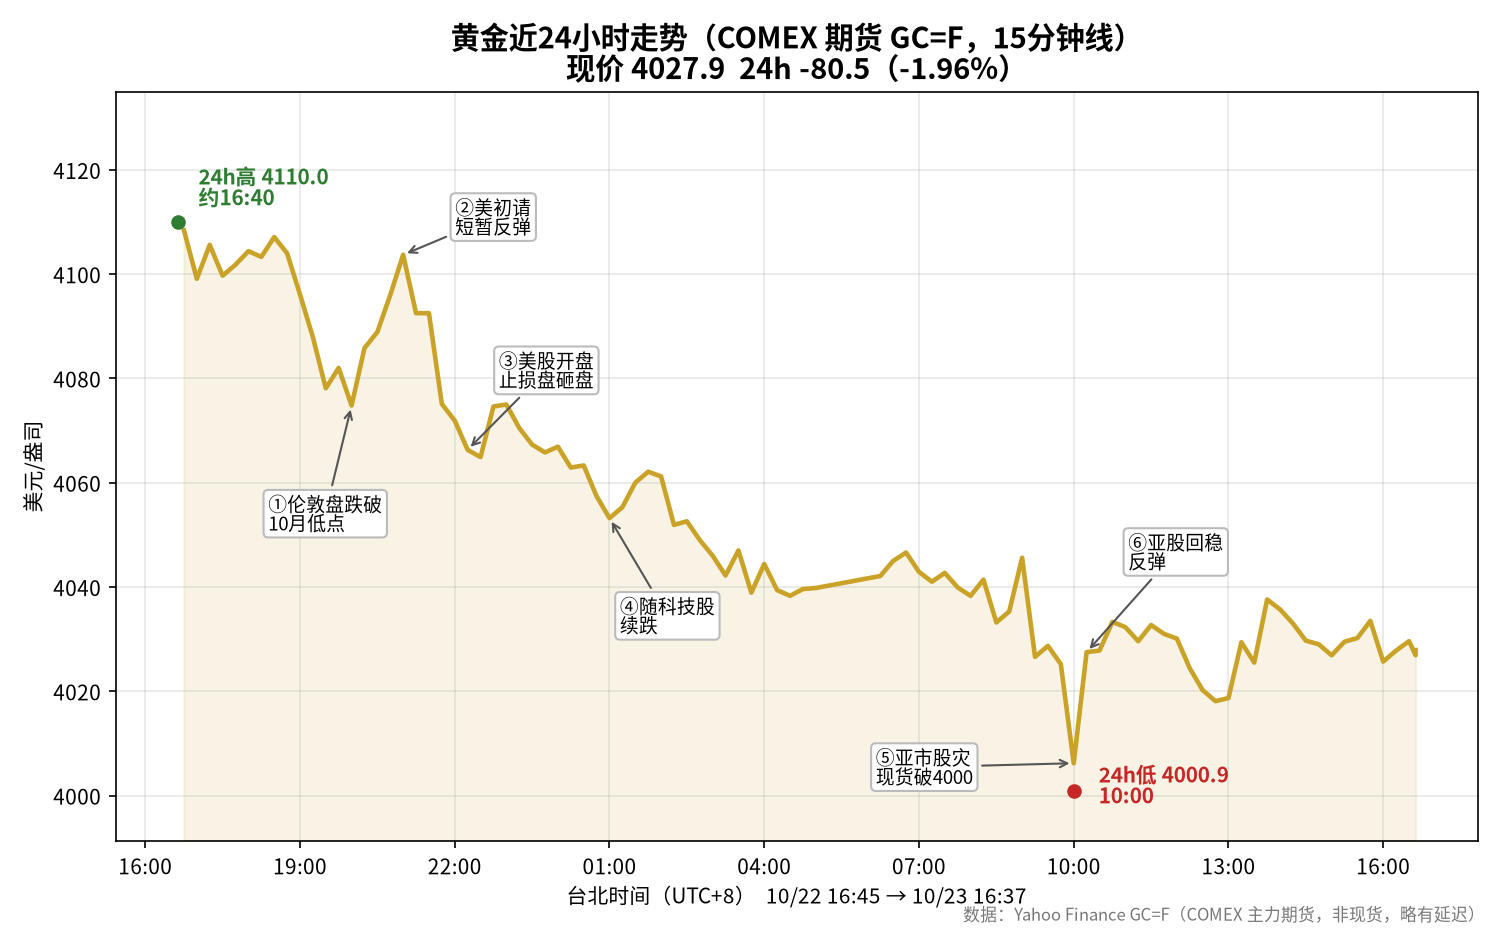
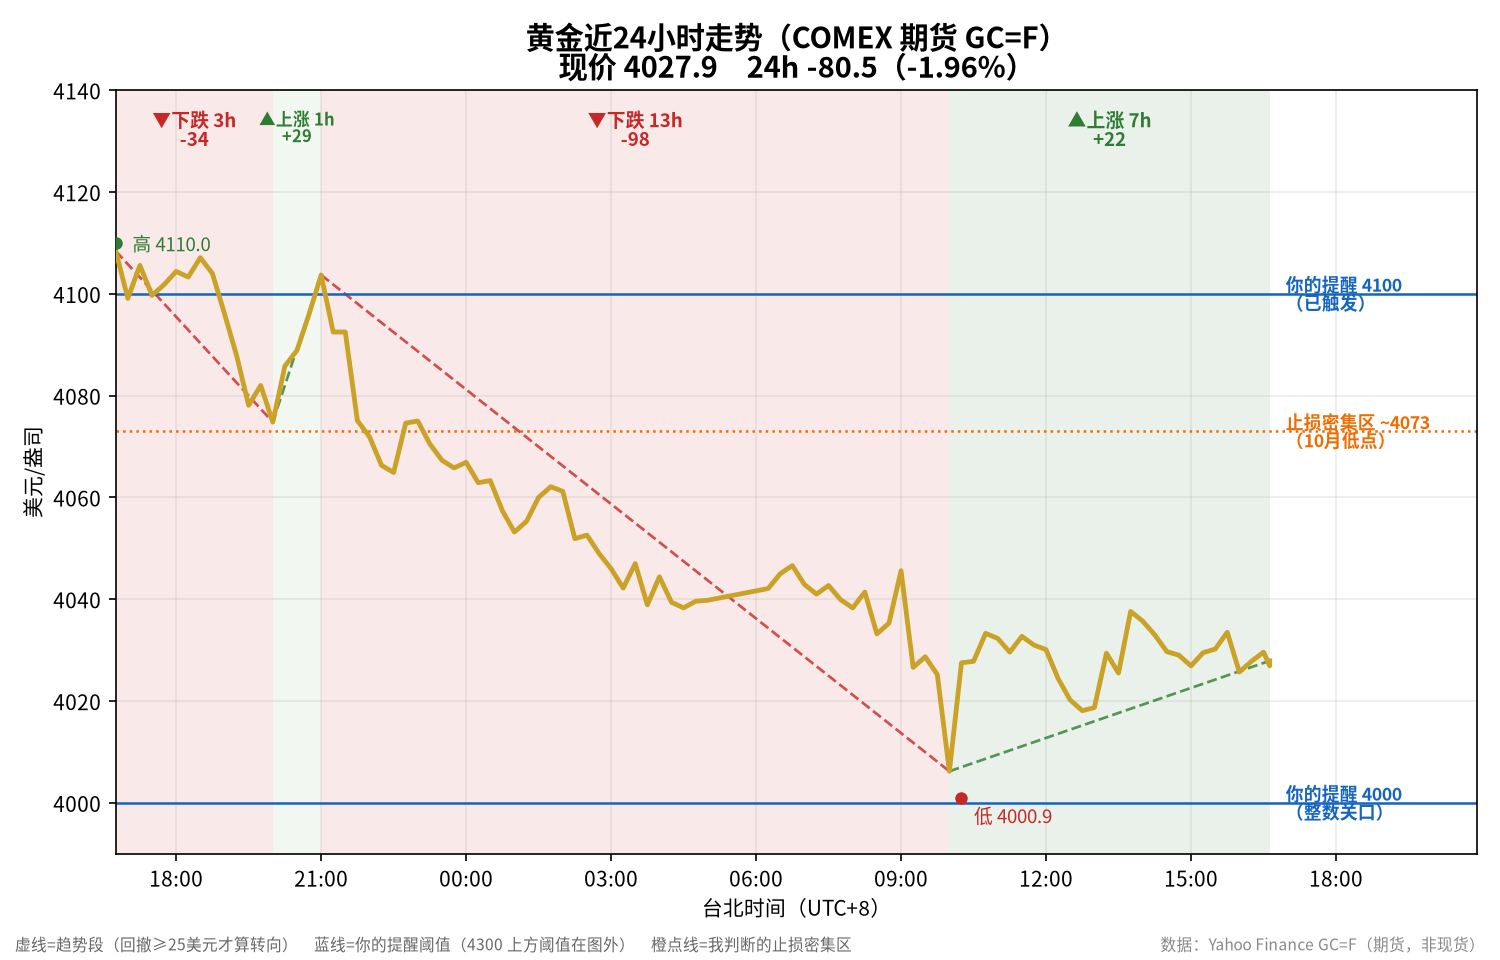
gold24: thresholds, stop zone, trend segments

diff --git a/gold24.html b/gold24.html
@@ -13,17 +13,20 @@ h1{font-size:20px;margin:4px 0}.sub{color:#666;font-size:14px;margin-bottom:10px
 <h1>【金价】黄金近24小时走势</h1><div class="sub">现价 4027.9　24h -80.5（-1.96%）　10/22 16:45 → 10/23 16:37（台北时间）</div>
 <svg id="c" viewBox="0 0 960 460"></svg>
 <div id="panel">把鼠标移到曲线上（手机上用手指按住拖动），这里会显示该时间点的价格和事件；点一下可以固定，方便点开来源链接。</div>
-<div class="legend">数据：Yahoo Finance GC=F（COMEX 黄金主力期货，15 分钟线，非现货，略有延迟）。金色阴影带是有事件的时段，数字对应事件编号。</div>
+<div class="legend">数据：Yahoo Finance GC=F（COMEX 黄金主力期货，15 分钟线，非现货，略有延迟）。金色阴影带是有事件的时段，数字对应事件编号；红/绿底色和虚线是下跌/上涨趋势段（回撤≥25美元才算转向）；蓝线是你的提醒阈值（4300 在图外），橙虚线是我判断的止损密集区。</div>
 </div><div id="tip"></div>
 <script>
 const D={"pts": [{"t": "10/22 16:45", "ts": 1792658700, "p": 4108.4, "h": 4110.0, "l": 4102.0}, {"t": "10/22 17:00", "ts": 1792659600, "p": 4099.1, "h": 4109.2, "l": 4097.9}, {"t": "10/22 17:15", "ts": 1792660500, "p": 4105.6, "h": 4106.1, "l": 4095.5}, {"t": "10/22 17:30", "ts": 1792661400, "p": 4099.7, "h": 4106.1, "l": 4098.6}, {"t": "10/22 17:45", "ts": 1792662300, "p": 4101.8, "h": 4102.8, "l": 4098.3}, {"t": "10/22 18:00", "ts": 1792663200, "p": 4104.4, "h": 4104.7, "l": 4099.3}, {"t": "10/22 18:15", "ts": 1792664100, "p": 4103.3, "h": 4106.8, "l": 4101.4}, {"t": "10/22 18:30", "ts": 1792665000, "p": 4107.1, "h": 4108.8, "l": 4100.7}, {"t": "10/22 18:45", "ts": 1792665900, "p": 4104.0, "h": 4108.6, "l": 4103.4}, {"t": "10/22 19:00", "ts": 1792666800, "p": 4096.1, "h": 4104.4, "l": 4094.6}, {"t": "10/22 19:15", "ts": 1792667700, "p": 4087.9, "h": 4096.2, "l": 4087.9}, {"t": "10/22 19:30", "ts": 1792668600, "p": 4078.1, "h": 4089.9, "l": 4074.1}, {"t": "10/22 19:45", "ts": 1792669500, "p": 4082.0, "h": 4082.5, "l": 4074.0}, {"t": "10/22 20:00", "ts": 1792670400, "p": 4074.8, "h": 4085.0, "l": 4072.7}, {"t": "10/22 20:15", "ts": 1792671300, "p": 4085.8, "h": 4092.3, "l": 4074.1}, {"t": "10/22 20:30", "ts": 1792672200, "p": 4088.9, "h": 4089.3, "l": 4078.8}, {"t": "10/22 20:45", "ts": 1792673100, "p": 4096.0, "h": 4099.0, "l": 4084.0}, {"t": "10/22 21:00", "ts": 1792674000, "p": 4103.7, "h": 4107.2, "l": 4096.3}, {"t": "10/22 21:15", "ts": 1792674900, "p": 4092.5, "h": 4104.0, "l": 4092.5}, {"t": "10/22 21:30", "ts": 1792675800, "p": 4092.5, "h": 4097.3, "l": 4090.2}, {"t": "10/22 21:45", "ts": 1792676700, "p": 4075.1, "h": 4096.5, "l": 4074.8}, {"t": "10/22 22:00", "ts": 1792677600, "p": 4071.9, "h": 4082.7, "l": 4068.8}, {"t": "10/22 22:15", "ts": 1792678500, "p": 4066.3, "h": 4076.1, "l": 4059.5}, {"t": "10/22 22:30", "ts": 1792679400, "p": 4064.9, "h": 4069.5, "l": 4061.8}, {"t": "10/22 22:45", "ts": 1792680300, "p": 4074.6, "h": 4076.5, "l": 4064.7}, {"t": "10/22 23:00", "ts": 1792681200, "p": 4075.0, "h": 4080.1, "l": 4071.1}, {"t": "10/22 23:15", "ts": 1792682100, "p": 4070.5, "h": 4078.5, "l": 4069.3}, {"t": "10/22 23:30", "ts": 1792683000, "p": 4067.3, "h": 4076.7, "l": 4066.6}, {"t": "10/22 23:45", "ts": 1792683900, "p": 4065.8, "h": 4071.1, "l": 4062.6}, {"t": "10/23 00:00", "ts": 1792684800, "p": 4066.9, "h": 4070.4, "l": 4065.2}, {"t": "10/23 00:15", "ts": 1792685700, "p": 4062.9, "h": 4068.5, "l": 4059.8}, {"t": "10/23 00:30", "ts": 1792686600, "p": 4063.3, "h": 4066.1, "l": 4058.2}, {"t": "10/23 00:45", "ts": 1792687500, "p": 4057.4, "h": 4063.4, "l": 4056.5}, {"t": "10/23 01:00", "ts": 1792688400, "p": 4053.2, "h": 4057.6, "l": 4049.1}, {"t": "10/23 01:15", "ts": 1792689300, "p": 4055.3, "h": 4056.3, "l": 4049.8}, {"t": "10/23 01:30", "ts": 1792690200, "p": 4060.0, "h": 4062.3, "l": 4055.4}, {"t": "10/23 01:45", "ts": 1792691100, "p": 4062.1, "h": 4062.3, "l": 4055.5}, {"t": "10/23 02:00", "ts": 1792692000, "p": 4061.2, "h": 4063.8, "l": 4058.8}, {"t": "10/23 02:15", "ts": 1792692900, "p": 4051.9, "h": 4061.8, "l": 4051.4}, {"t": "10/23 02:30", "ts": 1792693800, "p": 4052.6, "h": 4056.4, "l": 4051.6}, {"t": "10/23 02:45", "ts": 1792694700, "p": 4049.0, "h": 4056.2, "l": 4047.3}, {"t": "10/23 03:00", "ts": 1792695600, "p": 4046.0, "h": 4050.1, "l": 4045.6}, {"t": "10/23 03:15", "ts": 1792696500, "p": 4042.2, "h": 4046.7, "l": 4041.2}, {"t": "10/23 03:30", "ts": 1792697400, "p": 4047.0, "h": 4047.1, "l": 4041.7}, {"t": "10/23 03:45", "ts": 1792698300, "p": 4038.9, "h": 4047.1, "l": 4037.3}, {"t": "10/23 04:00", "ts": 1792699200, "p": 4044.4, "h": 4044.6, "l": 4037.2}, {"t": "10/23 04:15", "ts": 1792700100, "p": 4039.4, "h": 4045.5, "l": 4039.0}, {"t": "10/23 04:30", "ts": 1792701000, "p": 4038.3, "h": 4040.7, "l": 4037.1}, {"t": "10/23 04:45", "ts": 1792701900, "p": 4039.6, "h": 4039.7, "l": 4036.8}, {"t": "10/23 05:00", "ts": 1792702800, "p": 4039.8, "h": 4041.1, "l": 4037.6}, {"t": "10/23 06:15", "ts": 1792707300, "p": 4042.1, "h": 4043.9, "l": 4038.8}, {"t": "10/23 06:30", "ts": 1792708200, "p": 4045.0, "h": 4045.9, "l": 4042.0}, {"t": "10/23 06:45", "ts": 1792709100, "p": 4046.6, "h": 4047.8, "l": 4043.2}, {"t": "10/23 07:00", "ts": 1792710000, "p": 4042.9, "h": 4047.3, "l": 4042.2}, {"t": "10/23 07:15", "ts": 1792710900, "p": 4041.0, "h": 4043.4, "l": 4038.8}, {"t": "10/23 07:30", "ts": 1792711800, "p": 4042.7, "h": 4044.0, "l": 4040.6}, {"t": "10/23 07:45", "ts": 1792712700, "p": 4039.9, "h": 4043.1, "l": 4037.9}, {"t": "10/23 08:00", "ts": 1792713600, "p": 4038.3, "h": 4040.0, "l": 4036.0}, {"t": "10/23 08:15", "ts": 1792714500, "p": 4041.4, "h": 4042.5, "l": 4035.2}, {"t": "10/23 08:30", "ts": 1792715400, "p": 4033.2, "h": 4041.4, "l": 4031.8}, {"t": "10/23 08:45", "ts": 1792716300, "p": 4035.3, "h": 4035.8, "l": 4031.6}, {"t": "10/23 09:00", "ts": 1792717200, "p": 4045.6, "h": 4047.4, "l": 4035.1}, {"t": "10/23 09:15", "ts": 1792718100, "p": 4026.6, "h": 4045.5, "l": 4026.5}, {"t": "10/23 09:30", "ts": 1792719000, "p": 4028.7, "h": 4038.4, "l": 4026.4}, {"t": "10/23 09:45", "ts": 1792719900, "p": 4025.2, "h": 4033.3, "l": 4024.2}, {"t": "10/23 10:00", "ts": 1792720800, "p": 4006.2, "h": 4030.0, "l": 4005.4}, {"t": "10/23 10:15", "ts": 1792721700, "p": 4027.5, "h": 4028.5, "l": 4000.9}, {"t": "10/23 10:30", "ts": 1792722600, "p": 4027.8, "h": 4032.6, "l": 4025.5}, {"t": "10/23 10:45", "ts": 1792723500, "p": 4033.3, "h": 4037.6, "l": 4026.6}, {"t": "10/23 11:00", "ts": 1792724400, "p": 4032.3, "h": 4039.0, "l": 4028.8}, {"t": "10/23 11:15", "ts": 1792725300, "p": 4029.6, "h": 4034.1, "l": 4027.6}, {"t": "10/23 11:30", "ts": 1792726200, "p": 4032.7, "h": 4034.3, "l": 4026.7}, {"t": "10/23 11:45", "ts": 1792727100, "p": 4031.0, "h": 4034.3, "l": 4028.4}, {"t": "10/23 12:00", "ts": 1792728000, "p": 4030.1, "h": 4034.0, "l": 4029.0}, {"t": "10/23 12:15", "ts": 1792728900, "p": 4024.4, "h": 4029.9, "l": 4023.6}, {"t": "10/23 12:30", "ts": 1792729800, "p": 4020.2, "h": 4024.1, "l": 4019.8}, {"t": "10/23 12:45", "ts": 1792730700, "p": 4018.1, "h": 4021.9, "l": 4017.6}, {"t": "10/23 13:00", "ts": 1792731600, "p": 4018.7, "h": 4019.8, "l": 4016.3}, {"t": "10/23 13:15", "ts": 1792732500, "p": 4029.4, "h": 4030.8, "l": 4018.7}, {"t": "10/23 13:30", "ts": 1792733400, "p": 4025.5, "h": 4031.6, "l": 4023.6}, {"t": "10/23 13:45", "ts": 1792734300, "p": 4037.6, "h": 4043.0, "l": 4025.0}, {"t": "10/23 14:00", "ts": 1792735200, "p": 4035.7, "h": 4040.9, "l": 4033.6}, {"t": "10/23 14:15", "ts": 1792736100, "p": 4033.0, "h": 4036.7, "l": 4029.8}, {"t": "10/23 14:30", "ts": 1792737000, "p": 4029.7, "h": 4037.2, "l": 4028.4}, {"t": "10/23 14:45", "ts": 1792737900, "p": 4029.0, "h": 4031.0, "l": 4027.0}, {"t": "10/23 15:00", "ts": 1792738800, "p": 4026.9, "h": 4031.6, "l": 4026.5}, {"t": "10/23 15:15", "ts": 1792739700, "p": 4029.5, "h": 4030.9, "l": 4026.3}, {"t": "10/23 15:30", "ts": 1792740600, "p": 4030.2, "h": 4031.8, "l": 4025.8}, {"t": "10/23 15:45", "ts": 1792741500, "p": 4033.5, "h": 4036.1, "l": 4029.3}, {"t": "10/23 16:00", "ts": 1792742400, "p": 4025.7, "h": 4035.4, "l": 4025.0}, {"t": "10/23 16:15", "ts": 1792743300, "p": 4027.8, "h": 4028.1, "l": 4023.7}, {"t": "10/23 16:30", "ts": 1792744200, "p": 4029.6, "h": 4031.7, "l": 4027.5}, {"t": "10/23 16:37", "ts": 1792744661, "p": 4026.9, "h": 4033.4, "l": 4026.3}, {"t": "10/23 16:37", "ts": 1792744661, "p": 4027.9, "h": 4027.9, "l": 4027.9}], "evs": [{"a": 1792666800, "b": 1792670400, "title": "① 欧洲盘避险，跌破10月低点", "body": "纳指期货跌1.7%，布伦特原油站上111美元（5月以来最高），现货跌破4073的10月低点，最低4058。", "src": [["CapitalStreetFX", "https://www.capitalstreetfx.com/market-analysis/daily-commodity-report-22-oct-2026/"], ["investingLive", "https://investinglive.com/news/investinglive-european-session-wrap-dollar-yen-and-bonds-kick-it-old-school/"]]}, {"a": 1792670400, "b": 1792674000, "title": "② 美国初请好于预期，短暂反弹", "body": "20:30 初请失业金19.4万，好于预期20万，半小时内现货从4073.8涨到4091.8。", "src": [["Ausecure", "https://www.ausecure.com/gold-market-close-oct-22-2026/"]]}, {"a": 1792674000, "b": 1792679400, "title": "③ 美股开盘，止损盘集中涌出", "body": "跌破10月低点触发止损，45分钟跌约32美元，成交量约平时3倍；美元持平、美债收益率下行，属黄金自身抛售。", "src": [["Ausecure", "https://www.ausecure.com/gold-market-close-oct-22-2026/"]]}, {"a": 1792684800, "b": 1792695600, "title": "④ 跟随科技股续跌", "body": "费城半导体指数跌6.7%，纳指跌2.6%；00:30–01:00金价随纳指期货跌约13美元。02:00后未见单一消息，属尾盘续跌。", "src": [["Ausecure", "https://www.ausecure.com/gold-market-close-oct-22-2026/"]]}, {"a": 1792717200, "b": 1792721700, "title": "⑤ 亚市股灾，现货跌破4000", "body": "日经-1.3%、KOSPI-1.7%，现货最低3986.74，7月中以来最低；分析师称是流动性驱动的抛售，布伦特同时到114美元。", "src": [["Moneycontrol", "https://www.moneycontrol.com/news/business/gold-dips-below-4-000-as-deepening-stock-rout-fuels-volatility-14058237.html"], ["Business Standard", "https://www.business-standard.com/markets/news/asian-shares-slip-as-tech-rout-boosts-bonds-dents-rate-hike-bets-126102300074_1.html"]]}, {"a": 1792721700, "b": 1792725300, "title": "⑥ 亚洲科技股收复跌幅，金价反弹", "body": "亚洲科技股和韩股收复早盘跌幅，金价跟着反弹。", "src": [["AFP", "https://www.afp.com/en/asian-stocks-mixed-ahead-weekend-tech-recovers-early-losses"]]}, {"a": 1792731600, "b": 1792736100, "title": "⑦ 午间小幅反弹", "body": "未找到明确消息，可能是技术性反弹或流动性变化。", "src": []}]},svg=document.getElementById('c'),tip=document.getElementById('tip'),panel=document.getElementById('panel');
 const W=960,H=460,m={l:60,r:20,t:20,b:40},P=D.pts;
-const t0=P[0].ts,t1=P[P.length-1].ts,ps=P.map(p=>p.p),lo=Math.min(...P.map(p=>p.l))-8,hi=Math.max(...P.map(p=>p.h))+8;
+const t0=P[0].ts,t1=P[P.length-1].ts,ps=P.map(p=>p.p),lo=Math.min(3994,Math.min(...P.map(p=>p.l))-8),hi=Math.max(...P.map(p=>p.h))+12;
 const X=t=>m.l+(t-t0)/(t1-t0)*(W-m.l-m.r),Y=v=>m.t+(hi-v)/(hi-lo)*(H-m.t-m.b);
 const NS='http://www.w3.org/2000/svg',el=(n,a,p=svg)=>{const e=document.createElementNS(NS,n);for(const k in a)e.setAttribute(k,a[k]);p.appendChild(e);return e};
 for(let v=Math.ceil(lo/20)*20;v<=hi;v+=20){el('line',{x1:m.l,x2:W-m.r,y1:Y(v),y2:Y(v),stroke:'#eee'});el('text',{x:m.l-8,y:Y(v)+4,'text-anchor':'end','font-size':12,fill:'#888'}).textContent=v}
 D.evs.forEach((e,i)=>{const a=Math.max(e.a,t0),b=Math.min(e.b,t1);if(b<=a)return;el('rect',{x:X(a),y:m.t,width:X(b)-X(a),height:H-m.t-m.b,fill:'#C9A227',opacity:.10});el('text',{x:(X(a)+X(b))/2,y:m.t+14,'text-anchor':'middle','font-size':12,fill:'#9a7b12','font-weight':700}).textContent=e.title.slice(0,1)});
 P.forEach((p,i)=>{if(i%12==0){const x=X(p.ts);el('text',{x,y:H-m.b+20,'text-anchor':'middle','font-size':12,fill:'#888'}).textContent=p.t.slice(6)}});
+const X2={"segs": [{"a": 1792658700, "b": 1792670400, "pa": 4108.4, "pb": 4074.8}, {"a": 1792670400, "b": 1792674000, "pa": 4074.8, "pb": 4103.7}, {"a": 1792674000, "b": 1792720800, "pa": 4103.7, "pb": 4006.2}, {"a": 1792720800, "b": 1792744661, "pa": 4006.2, "pb": 4027.9}], "lines": [{"v": 4100, "t": "你的提醒 4100（已触发）", "c": "#1565c0", "d": ""}, {"v": 4000, "t": "你的提醒 4000（整数关口）", "c": "#1565c0", "d": ""}, {"v": 4073, "t": "止损密集区 ~4073（10月低点）", "c": "#ef6c00", "d": "4,4"}]};
+X2.segs.forEach(g=>{const up=g.pb>g.pa,c=up?'#2e7d32':'#c62828',h=(g.b-g.a)/3600;el('rect',{x:X(g.a),y:m.t,width:X(g.b)-X(g.a),height:H-m.t-m.b,fill:c,opacity:h<3?.05:.08});el('line',{x1:X(g.a),y1:Y(g.pa),x2:X(g.b),y2:Y(g.pb),stroke:c,'stroke-width':1.5,'stroke-dasharray':'6,4',opacity:.8});el('text',{x:(X(g.a)+X(g.b))/2,y:H-m.b-8,'text-anchor':'middle','font-size':12,fill:c,'font-weight':700}).textContent=(up?'▲上涨 ':'▼下跌 ')+h.toFixed(0)+'h '+(g.pb-g.pa>0?'+':'')+(g.pb-g.pa).toFixed(0)});
+X2.lines.forEach(l=>{if(l.v<lo||l.v>hi)return;el('line',{x1:m.l,x2:W-m.r,y1:Y(l.v),y2:Y(l.v),stroke:l.c,'stroke-width':1.4,'stroke-dasharray':l.d});el('text',{x:W-m.r-4,y:Y(l.v)-5,'text-anchor':'end','font-size':12,fill:l.c,'font-weight':700}).textContent=l.t});
 const pathD=P.map((p,i)=>(i?'L':'M')+X(p.ts).toFixed(1)+','+Y(p.p).toFixed(1)).join('');
 el('path',{d:pathD+`L${X(t1)},${H-m.b}L${X(t0)},${H-m.b}Z`,fill:'#C9A227',opacity:.12});
 el('path',{d:pathD,fill:'none',stroke:'#C9A227','stroke-width':2.5});
@@ -35,6 +38,7 @@ let pinned=false;
 const evOf=ts=>D.evs.find(e=>ts>e.a&&ts<=e.b+1);
 function html(i){const p=P[i],prev=P[Math.max(0,i-1)],ch=p.p-prev.p,e=evOf(p.ts);
  let s=`<b>${p.t}</b>　价格 <b>${p.p}</b><br>15分钟变化 ${ch>=0?'+':''}${ch.toFixed(1)}　区间 ${p.l}–${p.h}`;
+ const g=X2.segs.find(g=>p.ts>=g.a&&p.ts<=g.b);if(g){const up=g.pb>g.pa;s+=`<br><span style="color:${up?'#2e7d32':'#c62828'}">所在趋势：${up?'上涨':'下跌'} ${((g.b-g.a)/3600).toFixed(0)} 小时，${(g.pb-g.pa>0?'+':'')+(g.pb-g.pa).toFixed(1)}</span>`}
  s+=e?`<div class="ev"><b>${e.title}</b><br>${e.body}${e.src.length?'<br>来源：'+e.src.map(s=>`<a href="${s[1]}" target="_blank">${s[0]}</a>`).join('、'):''}</div>`:`<div class="ev" style="color:#888">这个时段没有重大消息，属正常盘中波动。</div>`;return s}
 function at(cx,cy,force){if(pinned&&!force)return;const r=svg.getBoundingClientRect(),sx=(cx-r.left)/r.width*W;
  let i=0,bd=1e9;P.forEach((p,k)=>{const dd=Math.abs(X(p.ts)-sx);if(dd<bd){bd=dd;i=k}});
